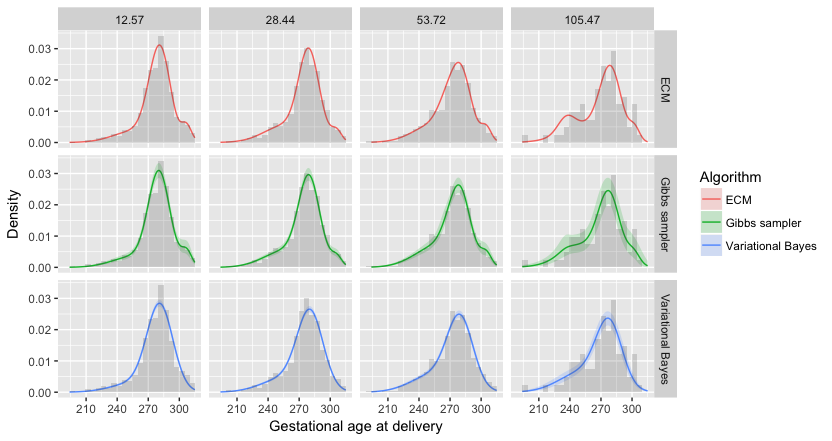
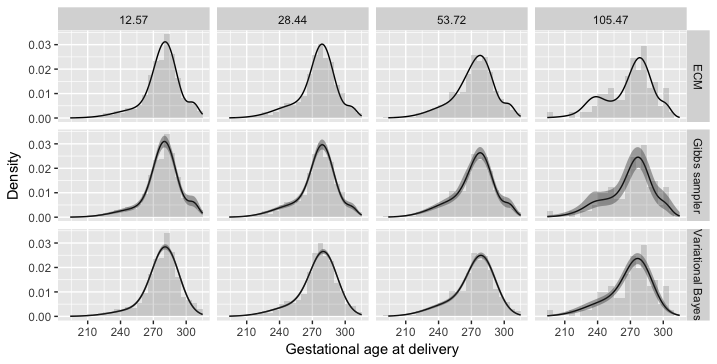
Tutorial and plots

diff --git a/Tutorial_files/tutorial.md b/Tutorial_files/tutorial.md
@@ -1,15 +1,16 @@
 
-In this tutorial we describe the steps for obtaining the results of the application of the paper [Rigon and Durante, 2017](), in order to make our findings fully reproducible.
+In this tutorial we describe the steps for obtaining the results of the application of the paper [Rigon and Durante, 2017](), in order to make them fully reproducible.
 
-Note that all the analyses are performed with a **MacBook Air (OS X Sierra, version 10.12.6)**, using a R version **3.4.1**. Also, the chunk of code below require the installation of the `LSBP` R package, available in this repository. 
+All the analyses are performed with a **MacBook Air (OS X Sierra, version 10.12.6)**, using a R version **3.4.1**. Also, the chunk of code below require the installation of the `LSBP` R package, available in this repository. See the [README](https://github.com/tommasorigon/LSBP/blob/master/README.md) for instructions on the installation.
 
-As a preliminary step, we load in the environment all the required libraries.
+As a preliminary step, we load on a clean the environment all the required libraries.
 
 ```r
 rm(list=ls())    # Clean the current session
 library(LSBP)    # Load the LSBP package
 library(ggplot2) # Graphical library
 library(coda)    # For MCMC analysis
+library(splines) # For computing the natural B-splines basis
 ```
 
 ## Dataset description
@@ -21,32 +22,32 @@ load("dde.RData") # Load the dataset in memory
 The `dde` dataset can be downloaded  [here](dde.RData). It contains a `data.frame` having two columns: 
 
 * `DDE`: the level of the Dichlorodiphenyldichloroethylene.
-* `Age`: the gestational age at delivery, in days.
+* `GAD`: the gestational age at delivery, in days.
 
-The dataset comprises a total of `2312` observations. The `DDE` is clearly related to the weight of the baby, as suggested by the scatterplot shown below; the smooth lines is a loess estimate. 
+The dataset comprises a total of `2312` observations. The `DDE` is clearly related to the gestational age at delivery, as suggested by the scatterplot shown below; the smooth line is a loess estimate. 
 
 ```r
-ggplot(data=dde, aes(x=DDE,y=Age)) + geom_point(alpha=.5, cex=.5) + geom_smooth( method="loess", span = 1, col=1) + xlab("DDE (mg/L)") + ylab("Gestational age at delivery") + theme_bw() 
+ggplot(data=dde, aes(x=DDE,y=GAD)) + geom_point(alpha=.5, cex=.5) + geom_smooth( method="loess", span = 1, col=1) + xlab("DDE (mg/L)") + ylab("Gestational age at delivery") + theme_bw() 
 ```
 
 ![](application_img/plot1.png)
 
 ## LSBP estimation
 
-To fit the LSBP model we first define some fixed quantities, like the number MCMC replications, the burn-in period and the upper bound for the mixture components `H`. 
+To fit the LSBP model we first define some fixed quantities, like the number MCMC replications, the burn-in period and the number of mixture components `H`. 
 
 ```r
 n         <- nrow(dde) # Number of observations
 p         <- 2         # Row and colums of the design for the kernel
 p_splines <- 5         # Number of splines components
-R         <- 30000      # Number of replications
-burn_in   <- 5000       # Burn-in period
+R         <- 30000     # Number of replications
+burn_in   <- 5000      # Burn-in period
 H         <- 5         # Number of mixture components
 ```
 
-Using the function `prior_LSBP` we can specify the prior distribution, in the correct format. Also, notice that both `Age` and `DDE` have been normalized. 
+Using the function `prior_LSBP` we can specify the prior distribution, in the correct format. Also, notice that both `GAD` and `DDE` have been normalized. 
 
-For the mixing components, we use a natural cubic splines basis with $4$ equally spaced inner knots. As a result, for each mixture component we have $5$ parameters that have to be estimated.
+For the mixing components, we use a natural cubic splines basis with $4$ equally spaced inner knots, obtained through the `ns` command of the `splines` package. As a result, for each mixture component we have $5$ parameters that have to be estimated.
 
 
 ```r
@@ -55,19 +56,18 @@ prior       <- prior_LSBP(p,p,
                       b_kernel = c(0,0), B_kernel=diag(1,p), 
                       a_tau = .1, b_tau= .1)
 
-# Creation of the scaled dataset
+# Creation of the normalized dataset
 dde_scaled  <- data.frame(scale(dde))
-Basis       <- splines::ns(dde_scaled$DDE,p_splines)
+Basis       <- ns(dde_scaled$DDE,p_splines)
 dde_scaled  <- data.frame(dde_scaled, BS=Basis)
 
 # Formula for the model
-model_formula <- Formula::as.Formula(Age ~ DDE | BS.1 + BS.2 + BS.3 + BS.4 + BS.5)
+model_formula <- Formula::as.Formula(GAD ~ DDE | BS.1 + BS.2 + BS.3 + BS.4 + BS.5)
 ```
-
 
 ### Gibbs sampling algorithm
 
-We first run the Gibbs sampling, reporting also the computing times needed on our laptop. Of course, these quantities could vary according to the performance of the computer one is using.
+We first run the Gibbs sampling, through the command `LSBP_Gibbs` of the `LSBP` package.
 
 ```r
 set.seed(10) # The seed is setted so that the Gibbs sampler is reproducible.
@@ -77,26 +77,26 @@ fit_Gibbs   <- LSBP_Gibbs(model_formula, data=dde_scaled, H=H, prior=prior,
 
 ### ECM algorithm
 
-In order to alleviate the issue local maxima, we run the ECM algorithm 10 times, and we select the model that reached the highest value of the log-posterior distribution. Below, the computing time for the final model is reported as well.
+In order to alleviate the issue local maxima, we run the ECM algorithm `10` times through the command `LSBP_ECM` of the `LSBP` package, and we select the model that reached the highest value of the log-posterior distribution.
 
 ```r
-post <- rep(0,10)
+logposterior <- rep(0,10)
 for(i in 1:10){
   set.seed(i) # Every time we run the algorithm, we set a seed varying with i
   fit_ECM   <- LSBP_ECM(model_formula, data=dde_scaled, H=H, prior=prior,
                         control=control_ECM(method_init = "random"), verbose=FALSE)
-  post[i]  <- fit_ECM$logposterior
+  logposterior[i]  <- fit_ECM$logposterior
 }
 
 # Then, we run the algorithm again selecting the seed having the maximum log-posterior
-set.seed(which.max(post))
+set.seed(which.max(logposterior))
 fit_ECM   <- LSBP_ECM(model_formula, data=dde_scaled, H=H, prior=prior,
                         control=control_ECM(method_init = "random"), verbose=FALSE)
 ```
 
 ### Variational Bayes algorithm
 
-As for the ECM algorithm, also the variational Bayes approach suffers the issue of local maxima. Therefore, we rely on a similar approach by starting the algorithm 10 times.
+As for the ECM algorithm, also the variational Bayes approach suffers the issue of local maxima. Therefore, we start the algorithm `10` times, selecting the one having the highest lower bound.
 
 ```r
 # VB algorithm
@@ -113,7 +113,7 @@ fit_VB   <- LSBP_VB(model_formula, data=dde_scaled, H=H, prior=prior,
                        control_VB(tol=1e-2,method_init="random"),verbose=FALSE)
 ```
 
-## Posterior predictive check
+## Conditional densities
 
 We first create some auxiliary quantities that will be useful during this 
 
@@ -122,32 +122,30 @@ We first create some auxiliary quantities that will be useful during this
 DDE.points  <- (round(quantile(dde$DDE,c(0.1,0.6,0.9,0.99)),2) - mean(dde$DDE))/sd(dde$DDE)
 
 # And the correspondings design matrices
-X1           <- cbind(1,DDE.points)             # Design matrix of the kernel
-X2           <- cbind(1,splines::ns(DDE.points, # Design matrix for the mixing
+X1           <- cbind(1,DDE.points)             # Design matrix for the kernel
+X2           <- cbind(1,ns(DDE.points,          # Design matrix for the stick-breaking weights
                                     knots=attr(Basis,"knots"),
                                     Boundary.knots=attr(Basis,"Boundary.knots")))
 # Sequence for AGE and DDE
-sequenceAge    <- seq(from=min(dde_scaled$Age),to=max(dde_scaled$Age),length=100)
+sequenceGAD <- seq(from=min(dde_scaled$GAD),to=max(dde_scaled$GAD),length=100)
 sequenceDDE <- seq(from=min(dde_scaled$DDE),to=max(dde_scaled$DDE),length=100)
 
 # Create a new dataset containing the values to be predicted
-newdata     <- data.frame(Age=0, DDE=sequenceDDE, 
-                          BS= splines::ns(sequenceDDE, 
-                                          knots=attr(Basis,"knots"),
-                                          Boundary.knots=attr(Basis,"Boundary.knots")))
+newdata     <- data.frame(GAD=0, DDE=sequenceDDE, 
+                          BS= ns(sequenceDDE,knots=attr(Basis,"knots"),Boundary.knots=attr(Basis,"Boundary.knots")))
 ```
 
-In the following chunks, it is reported the code necessary for obtaining the density function for the three algorithms, using the function `LSBP_density` which evaluates the density function of a logit stick-breaking model.
+In the following chunks, it is reported the code necessary for obtaining the density function for the three algorithms, using the function `LSBP_density` of the `LSBP` package, which evaluates the density function of a logit stick-breaking model.
 
 ```r
 # Posterior density - Gibbs sampling
-pred_Gibbs <- array(0,c(R,length(sequenceAge),4))
-for(r in 1:R){
-  for(i in 1:100){
-    pred_Gibbs[r,i,] <- c(LSBP_density(sequenceAge[i],X1,X2,
+pred_Gibbs <- array(0,c(R,length(sequenceGAD),4))
+for(r in 1:R){      # Cycle over the iterations of the MCMC chain
+  for(i in 1:100){  # Cycle over the GAD grid
+    pred_Gibbs[r,i,] <- c(LSBP_density(sequenceGAD[i],X1,X2,
                           fit_Gibbs$param$beta_mixing[r,,],
                           fit_Gibbs$param$beta_kernel[r,,],
-                          fit_Gibbs$param$tau[r,]))/sd(dde$Age)
+                          fit_Gibbs$param$tau[r,]))/sd(dde$GAD)
   }
 }
 
@@ -161,12 +159,12 @@ Similarly, for the ECM algorithm we compute
 
 ```r
 # Posterior density estimate for the ECM model
-estimate_ECM <- matrix(0,length(sequenceAge),4)
-for(i in 1:100){
-  estimate_ECM[i,] <- c(LSBP_density(sequenceAge[i],X1,X2,
+estimate_ECM <- matrix(0,length(sequenceGAD),4)
+for(i in 1:100){       # Cycle over the GAD grid
+  estimate_ECM[i,] <- c(LSBP_density(sequenceGAD[i],X1,X2,
                        fit_ECM$param$beta_mixing,
                        fit_ECM$param$beta_kernel,
-                       fit_ECM$param$tau))/sd(dde$Age)
+                       fit_ECM$param$tau))/sd(dde$GAD)
 }
 
 ```
@@ -195,13 +193,13 @@ for (h in 1:H) {
 }
 
 # Posterior density - VB
-pred_VB <- array(0,c(R,length(sequenceAge),4))
-for(r in 1:R){
-  for(i in 1:100){
-    pred_VB[r,i,] <- c(LSBP_density(sequenceAge[i],X1,X2,
+pred_VB <- array(0,c(R,length(sequenceGAD),4))
+for(r in 1:R){      # Cycle over the R simulations of the previous step
+  for(i in 1:100){  # Cycle over the GAD grid
+    pred_VB[r,i,] <- c(LSBP_density(sequenceGAD[i],X1,X2,
                           fit_VB$beta_mixing_sim[r,,],
                           fit_VB$beta_kernel_sim[r,,],
-                          fit_VB$tau_sim[r,]))/sd(dde$Age)
+                          fit_VB$tau_sim[r,]))/sd(dde$GAD)
   }
 }
 
@@ -214,22 +212,22 @@ upper_VB    <- apply(pred_VB,c(2,3),function(x) quantile(x,0.975))
 The construction of the graph of the paper is as follows
 
 ```r
-# Construction of the data_frame
+# Construction of the data_frame - Notice that the values are reconducted to the original scale.
 data.plot <- data.frame(
   prediction  = c(c(estimate_Gibbs),c(estimate_ECM),c(estimate_VB)),
   lower       = c(c(lower_Gibbs),rep(NA,100*4),c(lower_VB)),
   upper       = c(c(upper_Gibbs),rep(NA,100*4),c(upper_VB)),
-  sequenceAge = rep(sequenceAge,3*4)*sd(dde$Age) + mean(dde$Age),
+  sequenceGAD = rep(sequenceGAD,3*4)*sd(dde$GAD) + mean(dde$GAD),
   DDE.points  = rep(rep(DDE.points,each=100),3)*sd(dde$DDE)+ mean(dde$DDE),
   Algorithm   = c(rep("Gibbs sampler",4*100),rep("ECM",4*100),rep("Variational Bayes",4*100))
 )
 
 
 data.plot2 <- data.frame(
-  Age = rep(c(dde$Age[which(dde$DDE < 20.505)],
-        dde$Age[which(dde$DDE >= 20.505 & dde$DDE < 41.08)],
-        dde$Age[which(dde$DDE >= 41.08 & dde$DDE < 79.6)],
-        dde$Age[which(dde$DDE > 79.6)]),3),
+  GAD = rep(c(dde$GAD[which(dde$DDE < 20.505)],
+        dde$GAD[which(dde$DDE >= 20.505 & dde$DDE < 41.08)],
+        dde$GAD[which(dde$DDE >= 41.08 & dde$DDE < 79.6)],
+        dde$GAD[which(dde$DDE > 79.6)]),3),
   DDE.points = rep(c(rep(12.57,sum(dde$DDE < 20.505)),
         rep(28.44,sum(dde$DDE >= 20.505 & dde$DDE < 41.08)),
         rep(53.72,sum(dde$DDE >= 41.08 & dde$DDE < 79.6)),
@@ -237,36 +235,36 @@ data.plot2 <- data.frame(
   Algorithm = c(rep("Gibbs sampler",nrow(dde)),rep("ECM",nrow(dde)),rep("Variational Bayes",nrow(dde)))
 )
 
-ggplot(data=data.plot) + geom_line(aes(x=sequenceAge,y=prediction,col=Algorithm)) + facet_grid(Algorithm~ DDE.points,scales="free_y") + ylab("Density") + geom_ribbon(alpha=0.2,aes(x=sequenceAge,ymin=lower,ymax=upper,fill=Algorithm))  +xlab("Gestational age at delivery") + geom_histogram(data=data.plot2,aes(x=Age,y=..density..),alpha=0.2,bins=25)
+ggplot(data=data.plot) + geom_line(aes(x=sequenceGAD,y=prediction)) + facet_grid(Algorithm~ DDE.points,scales="free_y") + ylab("Density") + geom_ribbon(alpha=0.4,aes(x=sequenceGAD,ymin=lower,ymax=upper))  +xlab("Gestational age at delivery") + geom_histogram(data=data.plot2,aes(x=GAD,y=..density..),alpha=0.2,bins=25)
 ```
 
 ![](application_img/plot2.png)
 
-## Additional graphs
+## Conditional probabilities of being under a threshold
 
-Finally, we procude here the graph concerning
-
+Finally, we produce the conditional probability of being under a threshold
 
 ```r
-gibbs_cdf <- cbind(predict(fit_Gibbs,type="cdf",threshold=(33*7 - mean(dde$Age))/sd(dde$Age),newdata=newdata),
-               predict(fit_Gibbs,type="cdf",threshold=(35*7 - mean(dde$Age))/sd(dde$Age),newdata=newdata),
-               predict(fit_Gibbs,type="cdf",threshold=(37*7 - mean(dde$Age))/sd(dde$Age),newdata=newdata),
-               predict(fit_Gibbs,type="cdf",threshold=(40*7 - mean(dde$Age))/sd(dde$Age),newdata=newdata))
+# Notice that the GAD and DDE values are reconducted to the original scale.
+gibbs_cdf <- cbind(predict(fit_Gibbs,type="cdf",threshold=(33*7 - mean(dde$GAD))/sd(dde$GAD),newdata=newdata),
+               predict(fit_Gibbs,type="cdf",threshold=(35*7 - mean(dde$GAD))/sd(dde$GAD),newdata=newdata),
+               predict(fit_Gibbs,type="cdf",threshold=(37*7 - mean(dde$GAD))/sd(dde$GAD),newdata=newdata),
+               predict(fit_Gibbs,type="cdf",threshold=(40*7 - mean(dde$GAD))/sd(dde$GAD),newdata=newdata))
 
-vb_cdf    <- cbind(predict(fit_VB,type="cdf",threshold=(33*7 - mean(dde$Age))/sd(dde$Age),newdata=newdata),
-               predict(fit_VB,type="cdf",threshold=(35*7 - mean(dde$Age))/sd(dde$Age),newdata=newdata),
-               predict(fit_VB,type="cdf",threshold=(37*7 - mean(dde$Age))/sd(dde$Age),newdata=newdata),
-               predict(fit_VB,type="cdf",threshold=(40*7 - mean(dde$Age))/sd(dde$Age),newdata=newdata))
+vb_cdf    <- cbind(predict(fit_VB,type="cdf",threshold=(33*7 - mean(dde$GAD))/sd(dde$GAD),newdata=newdata),
+               predict(fit_VB,type="cdf",threshold=(35*7 - mean(dde$GAD))/sd(dde$GAD),newdata=newdata),
+               predict(fit_VB,type="cdf",threshold=(37*7 - mean(dde$GAD))/sd(dde$GAD),newdata=newdata),
+               predict(fit_VB,type="cdf",threshold=(40*7 - mean(dde$GAD))/sd(dde$GAD),newdata=newdata))
 
-ECM_cdf   <- c(predict(fit_ECM,type="cdf",threshold=(33*7 - mean(dde$Age))/sd(dde$Age),newdata=newdata),
-               predict(fit_ECM,type="cdf",threshold=(35*7 - mean(dde$Age))/sd(dde$Age),newdata=newdata),
-               predict(fit_ECM,type="cdf",threshold=(37*7 - mean(dde$Age))/sd(dde$Age),newdata=newdata),
-               predict(fit_ECM,type="cdf",threshold=(40*7 - mean(dde$Age))/sd(dde$Age),newdata=newdata))
+ECM_cdf   <- c(predict(fit_ECM,type="cdf",threshold=(33*7 - mean(dde$GAD))/sd(dde$GAD),newdata=newdata),
+               predict(fit_ECM,type="cdf",threshold=(35*7 - mean(dde$GAD))/sd(dde$GAD),newdata=newdata),
+               predict(fit_ECM,type="cdf",threshold=(37*7 - mean(dde$GAD))/sd(dde$GAD),newdata=newdata),
+               predict(fit_ECM,type="cdf",threshold=(40*7 - mean(dde$GAD))/sd(dde$GAD),newdata=newdata))
                
-data.cdf  <- data.frame(DDE=rep(sequenceDDE,3*4)*sd(dde$D) + mean(dde$DDE),
+data.cdf  <- data.frame(DDE=rep(sequenceDDE,3*4)*sd(dde$DDE) + mean(dde$DDE),
                         Algorithm=rep(c("ECM","Gibbs sampler","Variational Bayes"),each=4*length(sequenceDDE)),
                         CDF  = c(ECM_cdf,colMeans(gibbs_cdf),colMeans(vb_cdf)),
-                        Threshold = rep(rep(c("Threshold = 33","Threshold = 35","Threshold = 37","Threshold = 40"),each=length(sequenceDDE)),3),
+                        Threshold = rep(rep(c("T = 33","T = 35","T = 37","T = 40"),each=length(sequenceDDE)),3),
                         Upper = c(rep(NA,4*length(sequenceDDE)),
                                   apply(gibbs_cdf,2,function(x) quantile(x,0.975)),
                                   apply(vb_cdf,2,function(x) quantile(x,0.975))),
@@ -274,7 +272,7 @@ data.cdf  <- data.frame(DDE=rep(sequenceDDE,3*4)*sd(dde$D) + mean(dde$DDE),
                                   apply(gibbs_cdf,2,function(x) quantile(x,0.025)),
                                   apply(vb_cdf,2,function(x) quantile(x,0.025))))
 
-ggplot(data=data.cdf,aes(x=DDE,y=CDF,ymin=Lower,ymax=Upper,fill=Algorithm,col=Algorithm)) + geom_line() + facet_grid(Algorithm~Threshold)+ xlab("DDE (mg/L)")+ylab("Pr(Gestational Length < threshold)") + geom_ribbon(alpha=0.2,col="white")
+ggplot(data=data.cdf,aes(x=DDE,y=CDF,ymin=Lower,ymax=Upper)) + geom_line() + facet_grid(Algorithm~Threshold)+ xlab("DDE (mg/L)")+ylab("Pr(Gestational Length < T)") + geom_ribbon(alpha=0.2,col="white") 
 ```
 
 ![](application_img/plot3.png)

diff --git a/README.md b/README.md
@@ -1,10 +1,10 @@
-# LSBP: Dependent Logit Stick-Breaking Process
+# LSBP: Bayesian density regression via **L**ogit **S**tick-**B**reaking **P**rocess
 
-R functions and scripts to implement the Dependent Logit Stick-Breaking process model of
+The repository includes the R functions to implement the Logit Stick-Breaking process model of
 
 * Rigon, T. and Durante, D., (2017), [Logit stick-breaking priors for Bayesian density regression](https://arxiv.org/abs/1701.02969), ArXiv.
 
-The `LSBP` package can be installed as follow
+The `LSBP` package can be installed by running the following commands
 
 ```R
 # If the devtools R package is not already installed
@@ -14,3 +14,5 @@ devtools::install_github("tommasorigon/LSBP")
 ```
 
 Alternatively, install the R package from the source file `LSBP_VERSION.tar.gz` with `R CMD INSTALL LSBP_VERSION.tar.gz`. 
+
+Moreover, the file [`tutorial.md`](https://github.com/tommasorigon/LSBP/blob/master/Tutorial_files/tutorial.md) contains detailed instruction for reproducing the application of the paper.
